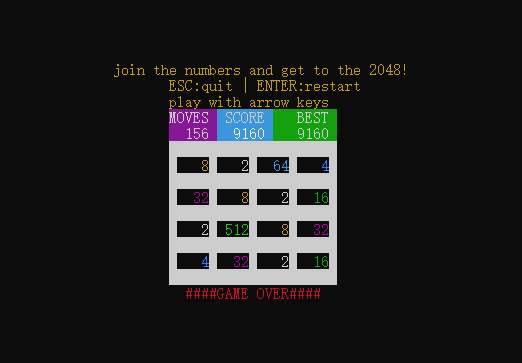
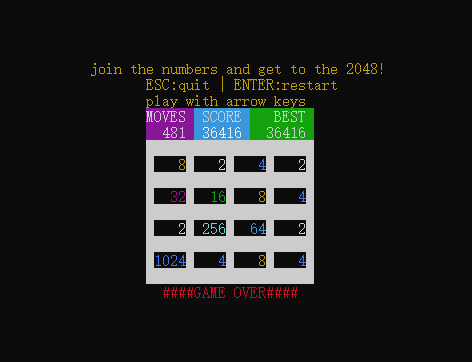
update

Changed region(s): [[0.2076, 0.1519, 0.8008, 0.7901], [0.3263, 0.7901, 0.6229, 0.8508]]

diff --git a/go2048.go b/go2048.go
@@ -26,11 +26,11 @@ func newBoard() {
 
 //控制随机数的概率
 func randNumber() int {
-	n := rand.Intn(10)
+	n := rand.Intn(15)
 	switch n {
-	case 1, 2, 3, 4, 5,6:
+	case 1, 2, 3, 4, 5,6,7,8,9,10:
 		return 2
-	case  7, 8,9:
+	case 11,12,13,14 :
 		return 4
 	}
 	return 8
